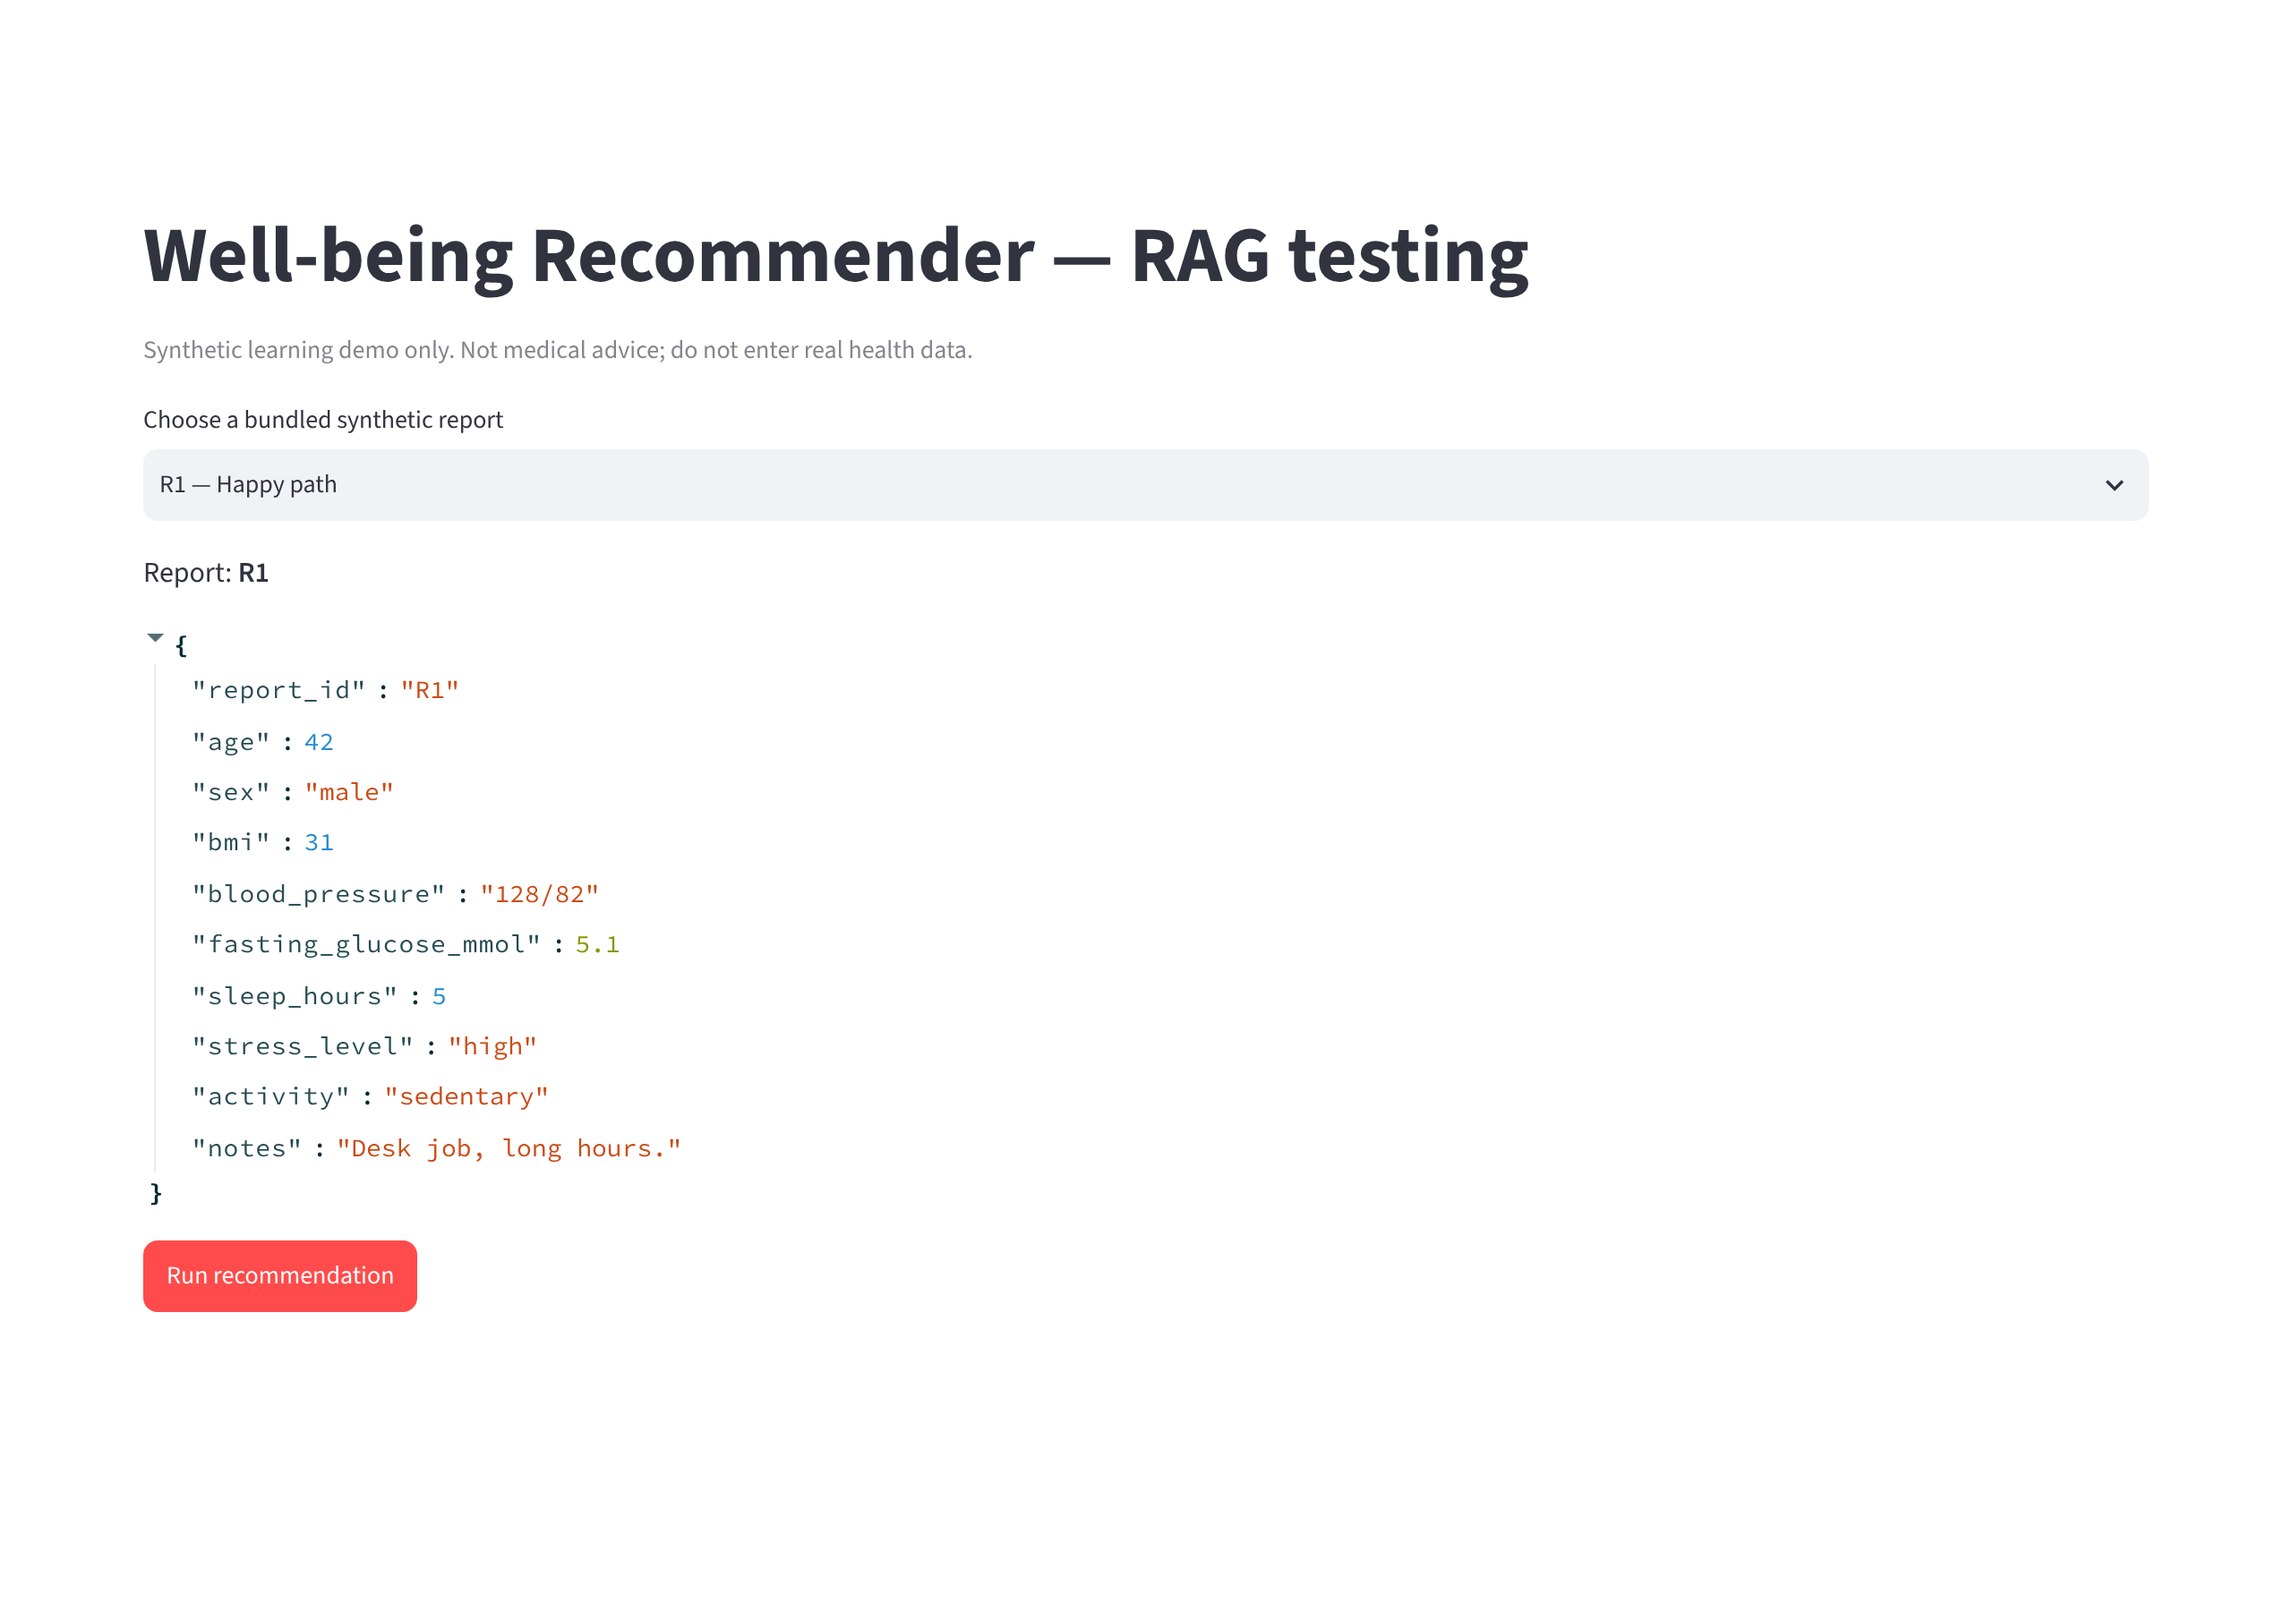
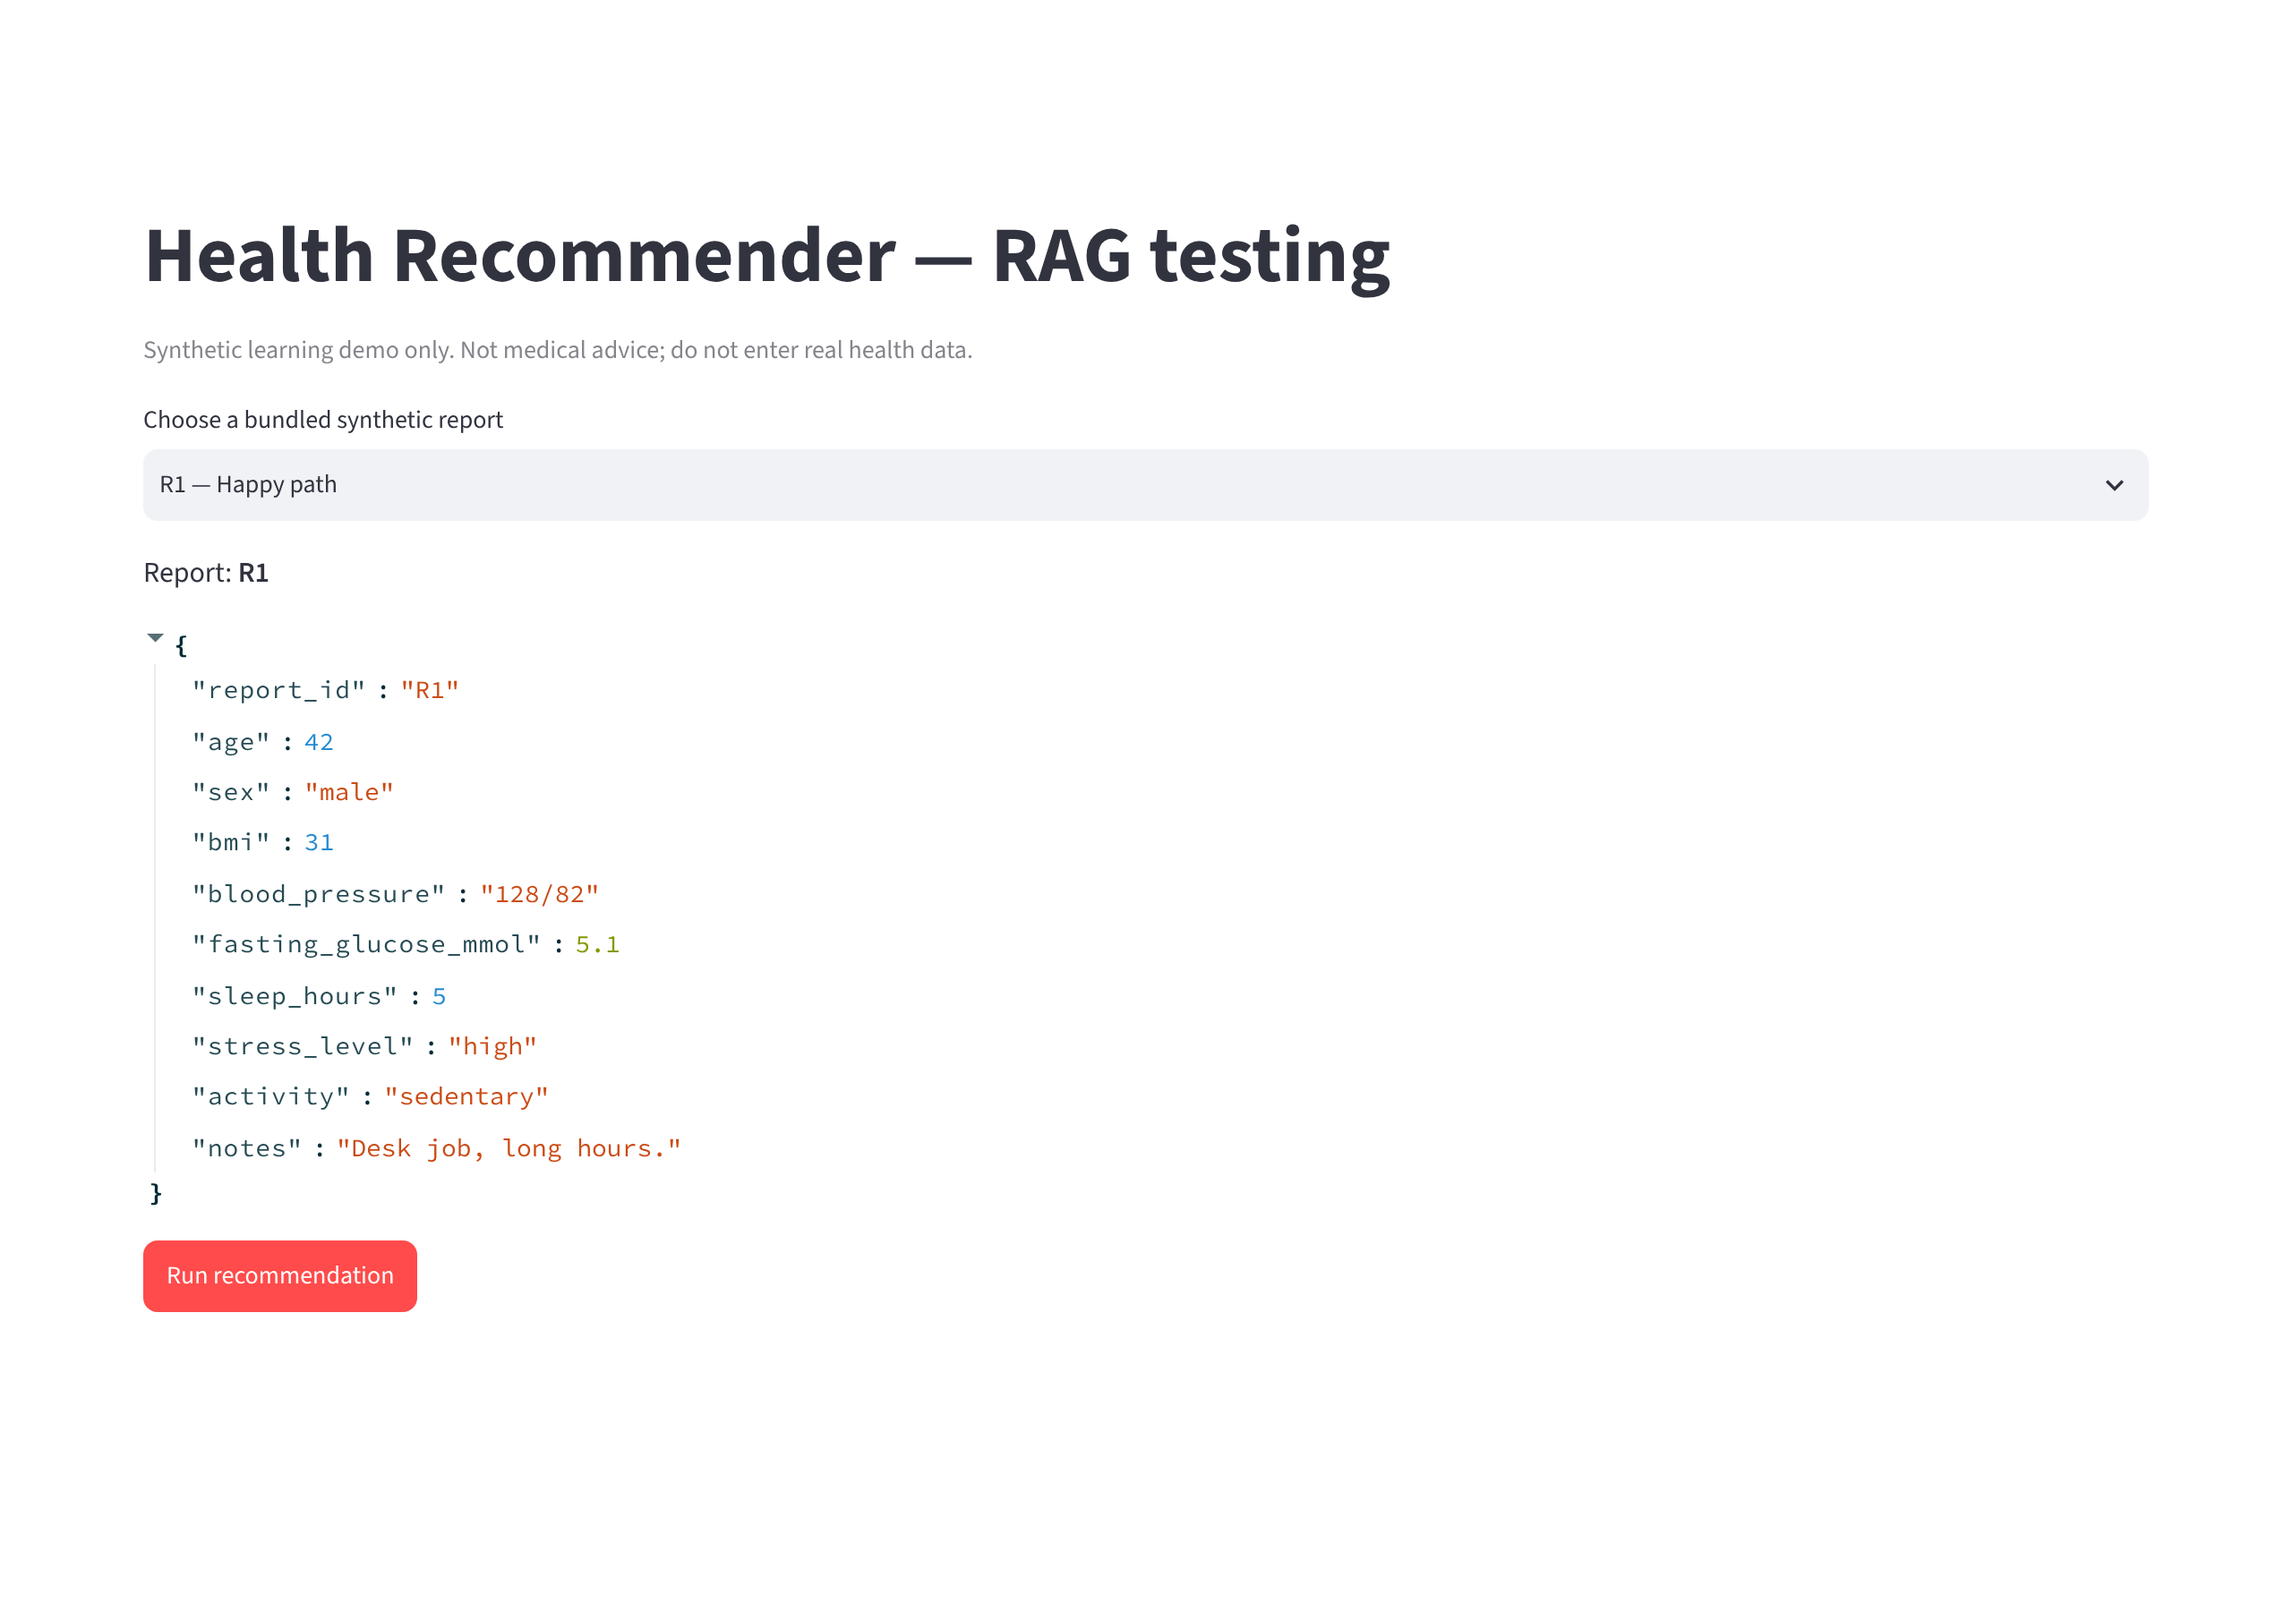
RAG Samples: rename visible 'well-being' text to 'health'
Re-render C4 diagram after the drawio rename, update UI titles, CLI help,
prompt wording, spec prose and the input screenshot. Code identifiers
(category value 'wellbeing', DB name 'wellbeing_rag') are unchanged.

Claude-Session: https://claude.ai/code/session_01V3PMYZsq3imyp7qo34Utxs

Changed region(s): [[0.0625, 0.1244, 0.6875, 0.1867]]

diff --git a/RAG Samples/src/streamlit_app.py b/RAG Samples/src/streamlit_app.py
@@ -17,8 +17,8 @@ REPORTS = {
     "R3 — Content gap (postpartum)": "report3_content_gap.json",
 }
 
-st.set_page_config(page_title="Well-being RAG POC 1", page_icon="📚", layout="wide")
-st.title("Well-being Recommender — RAG testing")
+st.set_page_config(page_title="Health RAG POC 1", page_icon="📚", layout="wide")
+st.title("Health Recommender — RAG testing")
 st.caption(
     "Synthetic learning demo only. Not medical advice; do not enter real health data."
 )
@@ -48,7 +48,7 @@ if result_payload and result_payload["report_id"] == report.report_id:
         f"Embeddings: {result_payload['embedding_model']}"
     )
 
-    for key, heading in (("physical", "Physical recommendations"), ("mental", "Mental well-being recommendations")):
+    for key, heading in (("physical", "Physical recommendations"), ("mental", "Mental health recommendations")):
         st.subheader(heading)
         recommendations = result_payload[key]
         if not recommendations:

diff --git a/RAG Samples/src/rag_app.py b/RAG Samples/src/rag_app.py
@@ -12,7 +12,7 @@ from src.vendor_loader import seed_database
 
 
 def build_parser() -> argparse.ArgumentParser:
-    parser = argparse.ArgumentParser(description="Run the well-being RAG POC.")
+    parser = argparse.ArgumentParser(description="Run the health RAG POC.")
     actions = parser.add_mutually_exclusive_group(required=True)
     actions.add_argument("--preflight", action="store_true", help="Check Codespaces prerequisites.")
     actions.add_argument("--setup-db", action="store_true", help="Create the database schema.")

diff --git a/RAG Samples/src/retriever.py b/RAG Samples/src/retriever.py
@@ -45,7 +45,7 @@ def _recommendations_for_category(
 ) -> list[Recommendation]:
     settings = get_settings()
     query = " ".join([*markers, report.notes]).strip()
-    vector = embed_texts(client, [query or "general well-being"], settings.embedding_model)[0]
+    vector = embed_texts(client, [query or "general health"], settings.embedding_model)[0]
     if len(vector) != settings.embedding_dimensions:
         raise PocError(
             "Embedding API returned an unexpected vector dimension; check the "

diff --git a/RAG Samples/src/__init__.py b/RAG Samples/src/__init__.py
@@ -1,1 +1,1 @@
-"""Well-being RAG proof of concept."""
+"""Health RAG proof of concept."""

diff --git a/RAG Samples/Use Case 1 -- Health Recommender (RAG).md b/RAG Samples/Use Case 1 -- Health Recommender (RAG).md
@@ -13,7 +13,7 @@ run its checkpoint, report the output, and wait for approval before continuing.
 
 ## 1. Goal
 
-Given a user's health assessment report, return the top 3 physical and top 3 mental well-being articles from a content snapshot, plus a short summary grounded only in those articles. This is a fixed pipeline: parse, retrieve, generate. No loops, no agents.
+Given a user's health assessment report, return the top 3 physical and top 3 mental health articles from a content snapshot, plus a short summary grounded only in those articles. This is a fixed pipeline: parse, retrieve, generate. No loops, no agents.
 
 **Learning objective:** understand how a plain RAG pipeline retrieves and uses
 source content, and where it fails when similarity is mistaken for relevance or
@@ -27,7 +27,7 @@ agent or an automatic fallback.
 ### 1.1 Architecture at a glance (C4)
 
 Read the diagram top-down: **C1 Context** shows who uses the system and what it
-talks to, **C2 Container** zooms into the Wellbeing Recommender, and **C3
+talks to, **C2 Container** zooms into the Health Recommender, and **C3
 Component** zooms into the RAG pipeline. The numbered arrows (1)–(7) in C3 are the
 same parse → retrieve → generate flow that the build phases below implement.
 
@@ -117,7 +117,7 @@ Do not create an application-local copy. The common evaluation cases and the
 three report fixtures are under
 [`../Sample-Data-Health-Content/sample-data/`](../Sample-Data-Health-Content/README.md).
 
-- 30 articles: 10 physical, 10 mental, 10 well-being. Mix of vendor and Everwell sources.
+- 30 articles: 10 physical, 10 mental, 10 health. Mix of vendor and Everwell sources.
 - 3 articles with `approved: false` (must never be returned).
 - 2 high-intensity physical articles with `contraindications: ["hypertension"]`.
 - At least 3 articles each for stress, poor\_sleep, high\_bmi, hypertension-safe low-intensity exercise, and prediabetes diet.
